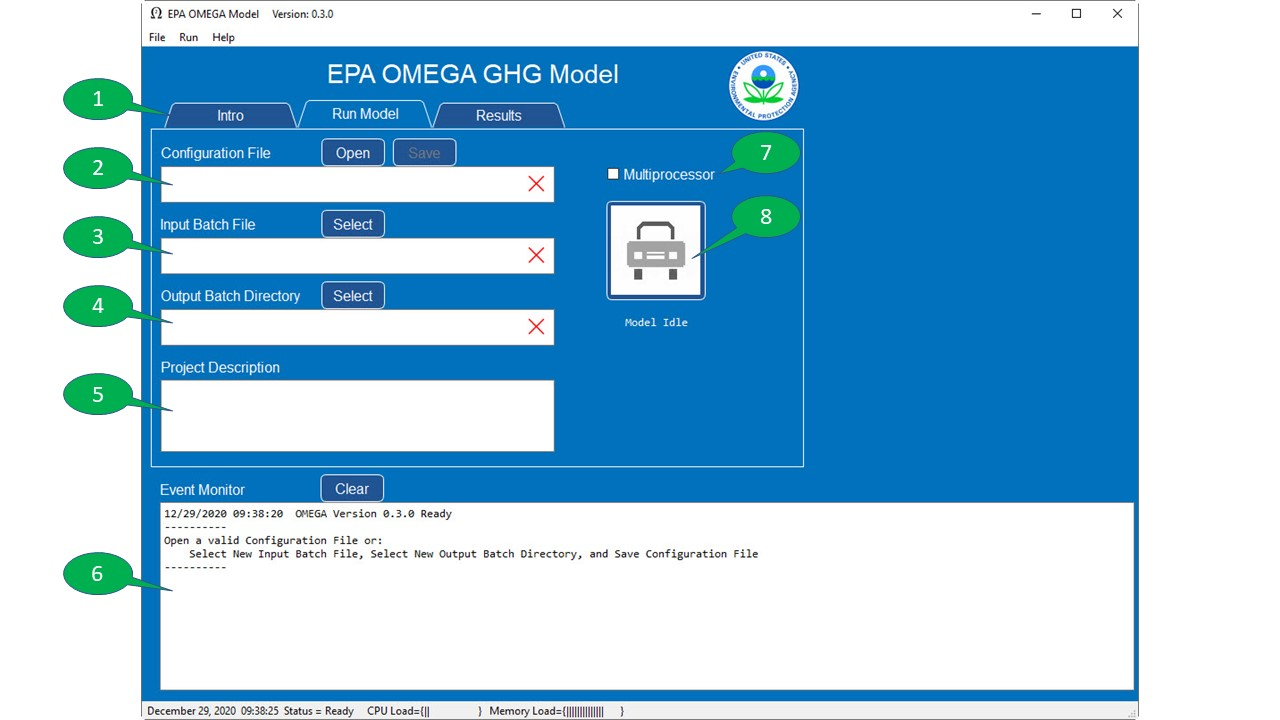
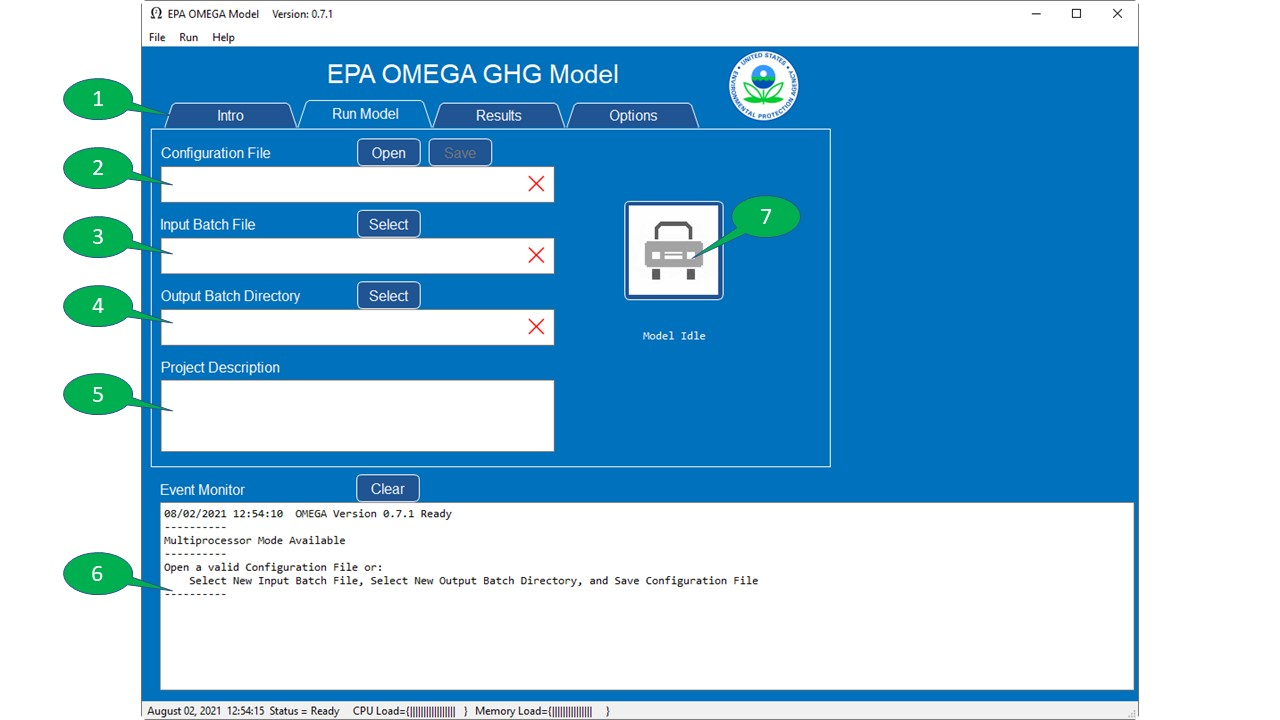
Documentation Update - GUI Options page addition

diff --git a/omega_gui/omega_gui_batch.py b/omega_gui/omega_gui_batch.py
@@ -637,8 +637,8 @@ class Form(QObject):
             self.event_monitor(temp2, 'green', 'dt')
 
             temp1 = "Configuration Loaded.\n"
-            temp1 = temp1 + "Model Run Enabled.\n"
-            temp1 = temp1 + "Punch It Chewie!"
+            temp1 = temp1 + "Model Run Enabled."
+            # temp1 = temp1 + "Punch It Chewie!"
             self.event_monitor(temp1, 'black', '')
 
             self.window.save_configuration_file_button.setEnabled(1)
@@ -743,8 +743,6 @@ class Form(QObject):
 
         self.window.model_status_label.setText("Model Idle")
         self.window.select_plot_3.setEnabled(0)
-
-
 
     def clear_entries(self):
         """

diff --git a/doc/source/inputs.rst b/doc/source/inputs.rst
@@ -55,10 +55,7 @@ Description of the 'Run Model' page elements:
 *  Element 6 - Event Monitor
     The Event Monitor prompts the user during model run setup (file selection, etc.) and keeps a running record of OMEGA model execution in real time.  This is a standard text field to allow simple copying of text as needed for further study or debugging purposes.
 
-*  Element 7 - Multiprocessor
-    The OMEGA model can be configured to utilize multiple system processors for true multitasking that significantly reduces model completion time.  For example, a typical Intel Core I7(R) has 8 processors total and typically 7 available for OMEGA to utilize.  Checking this box instructs OMEGA to use multiprocessor mode.
-
-*  Element 8 - Run Model
+*  Element 7 - Run Model
     When everything is properly configured, this button will be enabled for initiation of the OMEGA model run.
 
 Loading The Model Requirements
@@ -86,7 +83,7 @@ If a Configuration File is not available, create a new one using these steps:
 * Add an optional Project Description
 * Press 'Save' to store the new Configuration File
 
-The 'Run Model' page should look similar to :numref:`ug_label3` below.
+The 'Run Model' page will look similar to :numref:`ug_label3` below.
 
 .. _ug_label3:
 .. figure:: _static/ug_figures/gui_model_loaded.jpg
@@ -94,9 +91,47 @@ The 'Run Model' page should look similar to :numref:`ug_label3` below.
 
     GUI Configuration File Loaded
 
+Set Model Run Options
++++++++++++++++++++++
+Selecting the 'Options' tab will show a display similar to :numref:`ug_label11` below.
+
+.. _ug_label11:
+.. figure:: _static/ug_figures/gui_options_page.jpg
+    :align: center
+
+    GUI Options Page Display
+
+The OMEGA model can be configured to utilize multiple system processors for true multitasking that significantly reduces model completion time.  For example, a typical Intel Core I7(R) has 8 processors total and typically 7 available for OMEGA to utilize.  Checking the 'Enable Multiprocessor' box instructs OMEGA to use multiprocessor mode.  The 'Multiprocessor Help' button provides additional information.
+
+The Event Monitor will indicate multiprocessor availability during GUI launch as shown in :numref:`ug_label1` above.
+
+To use the Multiprocessor mode, a batch file customized to the configuration
+of this computer must be executed before the GUI is launched.
+
+Example Multiprocessor Batch File:
+
+::
+
+    ECHO OFF
+
+    REM set BASEPATH to the python install on your machine that has dispy installed
+    set BASEPATH=C:\dev\GitHub\EPA_OMEGA_Model\venv\
+
+    REM location of python.exe (in Scripts path for venvs, else in basepath for straight install):
+    set PYTHONPATH=%BASEPATH%Scripts\
+
+    REM location of dispy package:
+    set DISPYPATH=%BASEPATH%Lib\site-packages\dispy\
+
+    REM how many cpus to serve (e.g. number of cores minus one)
+    set NUM_CPUS=7
+
+    ECHO ON
+    "%PYTHONPATH%python" "%DISPYPATH%dispynode.py" --clean --cpus=%NUM_CPUS% --client_shutdown --ping_interval=15 --daemon --zombie_interval=1
+
 Run The Model
 -------------
-With all of the model requirements loaded, the 'Model Run' button will be enabled.  Press the 'Model Run' button to start the model run.
+With all of the model requirements loaded, select the 'Run Model' tab and the 'Model Run' button will be enabled.  Press the 'Model Run' button to start the model run.
 
 As the model is running, the 'Run Model' page will look similar to :numref:`ug_label4` below.
 
@@ -125,34 +160,6 @@ Final GUI Data:
 
 * The model ending information is detailed in the event monitor.  This includes the time and the Output Batch Directory used.
 * The model status and final model run time are displayed below the 'Run Model' button.
-
-Multiprocessor Mode
-^^^^^^^^^^^^^^^^^^^
-
-To use the Multiprocessor mode, a batch file customized to the configuration
-of this computer must be executed before the GUI is launched.
-
-Example Multiprocessor Batch File:
-
-::
-
-    ECHO OFF
-
-    REM set BASEPATH to the python install on your machine that has dispy installed
-    set BASEPATH=C:\dev\GitHub\EPA_OMEGA_Model\venv\
-
-    REM location of python.exe (in Scripts path for venvs, else in basepath for straight install):
-    set PYTHONPATH=%BASEPATH%Scripts\
-
-    REM location of dispy package:
-    set DISPYPATH=%BASEPATH%Lib\site-packages\dispy\
-
-    REM how many cpus to serve (e.g. number of cores minus one)
-    set NUM_CPUS=7
-
-    ECHO ON
-    "%PYTHONPATH%python" "%DISPYPATH%dispynode.py" --clean --cpus=%NUM_CPUS% --client_shutdown --ping_interval=15 --daemon --zombie_interval=1
-
 
 Navigating Model Outputs
 ^^^^^^^^^^^^^^^^^^^^^^^^^
@@ -186,6 +193,6 @@ The desired plot will appear as shown in :numref:`ug_label10` below.
 .. figure:: _static/ug_figures/gui_results_3.jpg
     :align: center
 
-    Plot Output
+    Typical Plot Output
 
 
